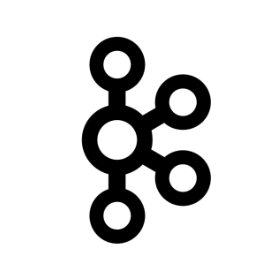
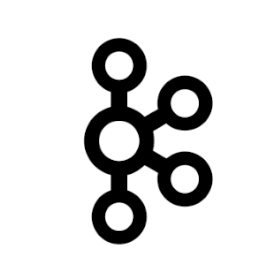
merge Develop to Main (#488)
- Update Kafka connect icons
 - Added and updated Streaming Data Frames (SDF) samples

diff --git a/python/sources/starter-source/main.py b/python/sources/starter-source/main.py
@@ -1,0 +1,90 @@
+from quixstreams import Application  # import the Quix Streams modules for interacting with Kafka:
+# (see https://quix.io/docs/quix-streams/v2-0-latest/api-reference/quixstreams.html for more details)
+
+# import additional modules as needed
+import random
+import os
+from dotenv import load_dotenv
+import json
+import logging
+
+
+with open("./.env", 'a+') as file: pass  # make sure the .env file exists
+load_dotenv("./.env")
+
+logging.basicConfig(level=logging.INFO)
+logger = logging.getLogger(__name__)
+
+app = Application.Quix(consumer_group="data_source", auto_create_topics=True)  # create an Application
+
+
+# define the topic using the "output" environment variable
+topic_name = os.environ["output"]
+topic = app.topic(topic_name)
+
+
+# this function loads the file and sends each row to the publisher
+def get_data():
+    """
+    A function to generate data from a hardcoded dataset in an endless manner.
+    It returns a list of tuples with a message_key and rows
+    """
+
+    # define the hardcoded dataset
+    # this data is fake data representing used % of memory allocation over time
+    # there is one row of data every 1 to 2 seconds
+    data = [
+        {"m": "mem", "host": "host1", "used_percent": "64.56", "time": "1577836800000000000"},
+        {"m": "mem", "host": "host2", "used_percent": "71.89", "time": "1577836801000000000"},
+        {"m": "mem", "host": "host1", "used_percent": "63.27", "time": "1577836803000000000"},
+        {"m": "mem", "host": "host2", "used_percent": "73.45", "time": "1577836804000000000"},
+        {"m": "mem", "host": "host1", "used_percent": "62.98", "time": "1577836806000000000"},
+        {"m": "mem", "host": "host2", "used_percent": "74.33", "time": "1577836808000000000"},
+        {"m": "mem", "host": "host1", "used_percent": "65.21", "time": "1577836810000000000"},
+        {"m": "mem", "host": "host2", "used_percent": "70.88", "time": "1577836812000000000"},
+        {"m": "mem", "host": "host1", "used_percent": "64.61", "time": "1577836814000000000"},
+        {"m": "mem", "host": "host2", "used_percent": "72.56", "time": "1577836816000000000"},
+        {"m": "mem", "host": "host1", "used_percent": "63.77", "time": "1577836818000000000"},
+        {"m": "mem", "host": "host2", "used_percent": "73.21", "time": "1577836820000000000"}
+    ]
+
+    # generate a unique ID for this data stream.
+    # it will be used as a message key in Kafka
+    message_key  = f"MESSAGE_KEY_{str(random.randint(1, 100)).zfill(3)}"
+
+    # create a list of tuples with a message_key and row_data
+    data_with_id = [(message_key , row_data) for row_data in data]
+
+    return data_with_id
+
+
+def main():
+    """
+    Read data from the hardcoded dataset and publish it to Kafka
+    """
+
+    # create a pre-configured Producer object.
+    producer = app.get_producer()
+
+    with producer:
+        # iterate over the data from the hardcoded dataset
+        data_with_id = get_data()
+        for message_key, row_data in data_with_id:
+
+            json_data = json.dumps(row_data)  # convert the row to JSON
+
+            # publish the data to the topic
+            producer.produce(
+                topic=topic.name,
+                key=message_key,
+                value=json_data,
+            )
+
+        logger.info("All rows published")
+
+
+if __name__ == "__main__":
+    try:
+        main()
+    except KeyboardInterrupt:
+        logger.info("Exiting.")

diff --git a/python/transformations/starter-transformation/main.py b/python/transformations/starter-transformation/main.py
@@ -1,0 +1,32 @@
+import os
+from quixstreams import Application
+from dotenv import load_dotenv
+import logging
+
+logging.basicConfig(level=logging.INFO)
+logger = logging.getLogger(__name__)
+
+print(os.environ["input"])
+
+
+with open("./.env", 'a+') as file: pass  # make sure the .env file exists
+load_dotenv("./.env")
+
+app = Application.Quix("transformation-v1", auto_offset_reset="latest")
+
+input_topic = app.topic(os.environ["input"], value_deserializer="json")
+output_topic = app.topic(os.environ["output"], value_serializer="json")
+
+sdf = app.dataframe(input_topic)
+
+# Put transformation logic.here
+
+sdf = sdf.update(lambda row: logger.debug(row))
+
+sdf = sdf.to_topic(output_topic)
+
+if __name__ == "__main__":
+    try:
+        app.run(sdf)
+    except Exception as e:
+        logger.exception("An error occurred while running the application.")

diff --git a/python/destinations/starter-destination/main.py b/python/destinations/starter-destination/main.py
@@ -1,0 +1,29 @@
+from quixstreams import Application
+
+import os
+from dotenv import load_dotenv
+import logging
+
+logging.basicConfig(level=logging.INFO)
+logger = logging.getLogger(__name__)
+
+with open("./.env", 'a+') as file: pass  # make sure the .env file exists
+load_dotenv("./.env")
+
+
+def sink(message):
+    value = message['mykey']
+    # write_to_db(value) # implement your logic to write data or send alerts etc
+
+app = Application.Quix("destination-v1", auto_offset_reset = "latest")
+
+input_topic = app.topic(os.environ["input"])
+
+sdf = app.dataframe(input_topic)
+
+sdf = sdf.update(sink)
+
+sdf = sdf.update(lambda row: print(row))
+
+if __name__ == "__main__":
+    app.run(sdf)

diff --git a/python/sources/starter-source/README.md b/python/sources/starter-source/README.md
@@ -1,14 +1,14 @@
-# Starter transformation
+# Starter data source
 
-[This project](https://github.com/quixio/quix-samples/tree/main/python/transformations/empty-template) is an example of how to transform data on the fly between source and destination.
+[This project](https://github.com/quixio/quix-samples/tree/main/python/sources/starter-source) streams data from hardcoded data into a topic.
 
-The default implementation subscribes to data from the source and publishes to the destination as-well-as printing content to console output. 
-
-Modify the Python code to transform your data on the fly.
+The sample is a demonstration of how you can publish data into Quix.
 
 ## How to run
 
 Create a [Quix](https://portal.platform.quix.ai/self-sign-up?xlink=github) account or log-in and visit the Samples to use this project.
+
+Clicking `Deploy` on the Sample, deploys a pre-built container in Quix. Complete the environment variables to configure the container.
 
 Clicking `Edit code` on the Sample, forks the project to your own Git repo so you can customize it before deploying.
 
@@ -16,8 +16,7 @@ Clicking `Edit code` on the Sample, forks the project to your own Git repo so yo
 
 The code sample uses the following environment variables:
 
-- **input**: Name of the input topic to listen to.
-- **output**: Name of the output topic to write to.
+- **Topic**: Name of the output topic to write into.
 
 ## Contribute
 

diff --git a/python/destinations/starter-destination/README.md b/python/destinations/starter-destination/README.md
@@ -1,0 +1,31 @@
+# Starter transformation
+
+[This project](https://github.com/quixio/quix-samples/tree/main/python/destinations/starter-destination) is an example of how to transform data on the fly between source and destination.
+
+The default implementation subscribes to data from the source topic and publishes to your destination as-well-as printing content to console output. 
+
+Modify the Python code to publish to your chosen destination(s) on the fly.
+
+## How to run
+
+Create a [Quix](https://portal.platform.quix.ai/self-sign-up?xlink=github) account or log-in and visit the Samples to use this project.
+
+Clicking `Edit code` on the Sample, forks the project to your own Git repo so you can customize it before deploying.
+
+## Environment variables
+
+The code sample uses the following environment variables:
+
+- **input**: Name of the input topic to listen to.
+- **output**: Name of the output topic to write to.
+
+## Contribute
+
+Submit forked projects to the Quix [GitHub](https://github.com/quixio/quix-samples) repo. Any new project that we accept will be attributed to you and you'll receive $200 in Quix credit.
+
+## Open source
+
+This project is open source under the Apache 2.0 license and available in our [GitHub](https://github.com/quixio/quix-samples) repo.
+
+Please star us and mention us on social to show your appreciation.
+

diff --git a/python/transformations/starter-transformation/README.md b/python/transformations/starter-transformation/README.md
@@ -1,6 +1,6 @@
 # Starter transformation
 
-[This project](https://github.com/quixio/quix-samples/tree/main/python/transformations/empty-template) is an example of how to transform data on the fly between source and destination.
+[This project](https://github.com/quixio/quix-samples/tree/main/python/transformations/starter-transformation) is an example of how to transform data on the fly between source and destination.
 
 The default implementation subscribes to data from the source and publishes to the destination as-well-as printing content to console output. 
 
